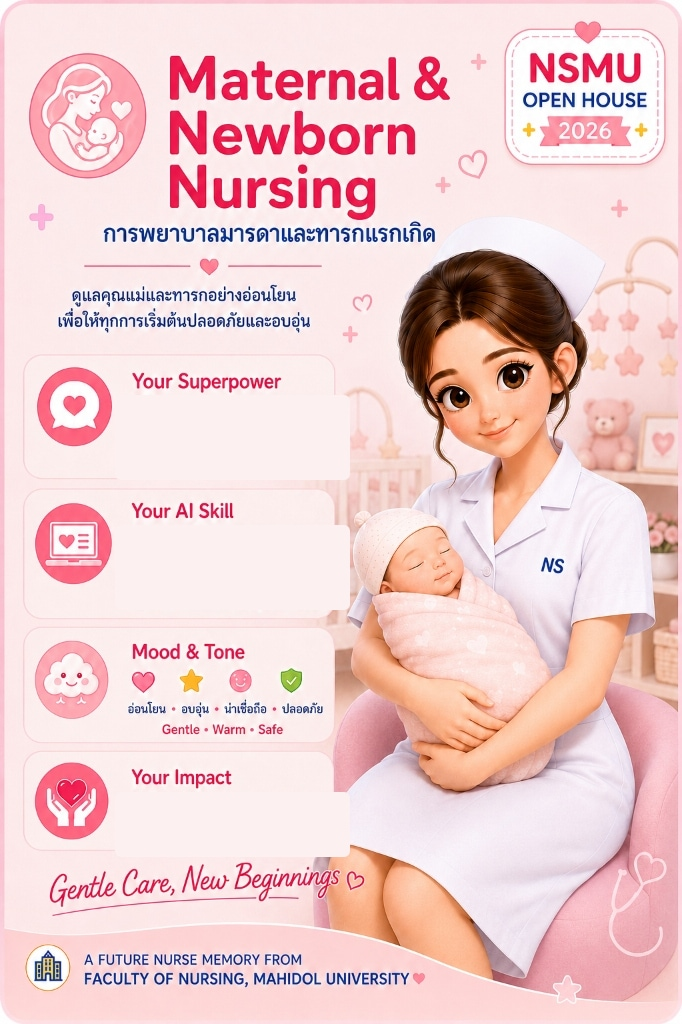
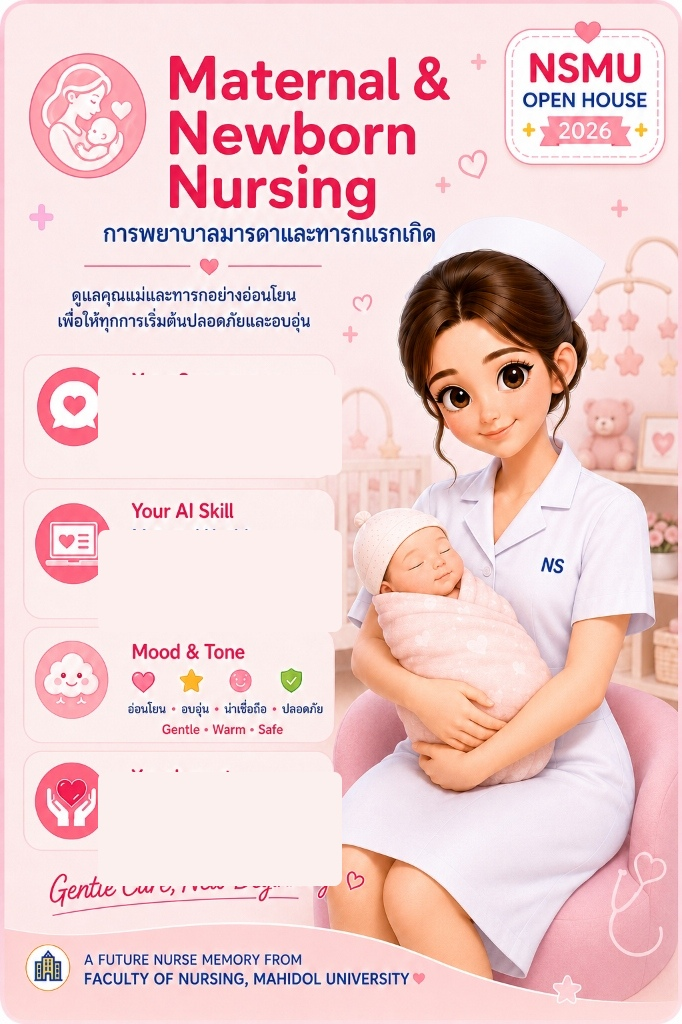
asset(oa_male): update male older adult nurse character illustration for reveal view

diff --git a/src/engine/cardRenderer.ts b/src/engine/cardRenderer.ts
@@ -134,123 +134,125 @@ async function renderTemplateCard(
     descColor: '#334155',
   };
 
-  const isNarrow = targetWidth <= 1150; // 576 width (PED female, COMM, TECH)
   const isPedFemale = result.pathId === 'PED' && result.characterType === 'female_student';
 
   if (isPedFemale) {
-    // ── Case 1: PED Female Template (print directly into the cleaned dashed boxes) ──
+    // ── Case 1: PED Female Template (print directly into the clean dashed boxes) ──
     ctx.save();
-    // Superpower Title
-    ctx.fillStyle = theme.primary;
-    ctx.font = `bold 26px ${CARD_FONT}`;
     ctx.textAlign = 'left';
+
+    // 1. Superpower Title (in the pill)
+    ctx.fillStyle = theme.primary;
+    ctx.font = `bold 34px ${CARD_FONT}`;
     ctx.textBaseline = 'middle';
-    ctx.fillText(result.superpower, 204, 695);
+    ctx.fillText(result.superpower, 98 * scale, 369 * scale);
 
     // Superpower Thai Description (inside dashed box)
-    ctx.fillStyle = theme.descColor;
-    ctx.font = `600 22px ${CARD_FONT}`;
+    ctx.fillStyle = '#334155';
+    ctx.font = `600 28px ${CARD_FONT}`;
     ctx.textBaseline = 'top';
-    const sLines = wrapThaiText(ctx, getSuperpowerDesc(result), 410);
-    const startSY = 750 + Math.max(0, (120 - sLines.length * 30) / 2);
-    sLines.forEach((line, i) => {
-      ctx.fillText(line, 88, startSY + i * 32);
+    const sLines = wrapThaiText(ctx, getSuperpowerDesc(result), 216 * scale);
+    const startSY = 442 * scale;
+    sLines.slice(0, 3).forEach((line, i) => {
+      ctx.fillText(line, 44 * scale, startSY + i * 38);
     });
 
-    // AI Skill Title
+    // 2. AI Skill Title (in the pill)
     ctx.fillStyle = theme.primary;
-    ctx.font = `bold 26px ${CARD_FONT}`;
+    ctx.font = `bold 34px ${CARD_FONT}`;
     ctx.textBaseline = 'middle';
-    ctx.fillText(result.aiSkill, 204, 1045);
+    ctx.fillText(result.aiSkill, 98 * scale, 563 * scale);
 
     // AI Skill Thai Description (inside dashed box)
-    ctx.fillStyle = theme.descColor;
-    ctx.font = `600 22px ${CARD_FONT}`;
+    ctx.fillStyle = '#334155';
+    ctx.font = `600 28px ${CARD_FONT}`;
     ctx.textBaseline = 'top';
-    const aiLines = wrapThaiText(ctx, getAiSkillDesc(result), 410);
-    const startAiY = 1095 + Math.max(0, (120 - aiLines.length * 30) / 2);
-    aiLines.forEach((line, i) => {
-      ctx.fillText(line, 88, startAiY + i * 32);
+    const aiLines = wrapThaiText(ctx, getAiSkillDesc(result), 216 * scale);
+    const startAiY = 636 * scale;
+    aiLines.slice(0, 3).forEach((line, i) => {
+      ctx.fillText(line, 44 * scale, startAiY + i * 38);
     });
 
-    // Mood & Tone: UNTOUCHED!
+    // 3. Mood & Tone: UNTOUCHED on image!
 
-    // Impact Title
+    // 4. Impact Title (in the pill)
     ctx.fillStyle = theme.primary;
-    ctx.font = `bold 26px ${CARD_FONT}`;
+    ctx.font = `bold 32px ${CARD_FONT}`;
     ctx.textBaseline = 'middle';
-    ctx.fillText(result.path.badge || 'Child Care Champion', 204, 1550);
+    ctx.fillText(result.path.badge || 'Child Care Champion', 98 * scale, 852 * scale);
 
     // Impact Thai Description (inside dashed box)
-    ctx.fillStyle = theme.descColor;
-    ctx.font = `600 21px ${CARD_FONT}`;
+    ctx.fillStyle = '#334155';
+    ctx.font = `600 26px ${CARD_FONT}`;
     ctx.textBaseline = 'top';
-    const impLines = wrapThaiText(ctx, result.profileImpact, 410);
-    const startImpY = 1600 + Math.max(0, (90 - impLines.length * 28) / 2);
-    impLines.forEach((line, i) => {
-      ctx.fillText(line, 88, startImpY + i * 30);
+    const impLines = wrapThaiText(ctx, result.profileImpact, 195 * scale);
+    const startImpY = 878 * scale;
+    impLines.slice(0, 2).forEach((line, i) => {
+      ctx.fillText(line, 65 * scale, startImpY + i * 36);
     });
     ctx.restore();
   } else {
-    // ── Case 2: All Other Cards (print directly into the cleaned boxes on the image) ──
-    const textX = isNarrow ? 200 : 230;
-    const maxW = isNarrow ? 310 : 415;
+    // ── Case 2: All Other Cards (print directly into the clean boxes on the image) ──
+    const isW576 = sourceWidth <= 600;
+    const isW819 = sourceWidth >= 750;
 
-    // Y offsets per path to align precisely with each card's pre-designed box
-    const Y_MAP: Record<string, { spTitle: number; spDesc: number; aiTitle: number; aiDesc: number; impDesc: number }> = {
-      COMM: { spTitle: 775, spDesc: 812, aiTitle: 1025, aiDesc: 1062, impDesc: 1525 },
-      TECH: { spTitle: 712, spDesc: 752, aiTitle: 994,  aiDesc: 1032, impDesc: 1525 },
-      ER:   { spTitle: 718, spDesc: 758, aiTitle: 1012, aiDesc: 1052, impDesc: 1550 },
-      MH:   { spTitle: 788, spDesc: 828, aiTitle: 1072, aiDesc: 1112, impDesc: 1625 },
-      OA:   { spTitle: 732, spDesc: 772, aiTitle: 1002, aiDesc: 1042, impDesc: 1535 },
-      MAT:  { spTitle: 742, spDesc: 782, aiTitle: 992,  aiDesc: 1032, impDesc: 1525 },
-      INT:  { spTitle: 712, spDesc: 752, aiTitle: 1012, aiDesc: 1052, impDesc: 1565 },
-      PED:  { spTitle: 668, spDesc: 708, aiTitle: 982,  aiDesc: 1022, impDesc: 1595 },
-    };
+    const textX = (isW819 ? 136 : isW576 ? 94 : 104) * scale;
+    const maxW = (isW819 ? 226 : isW576 ? 168 : 226) * scale;
 
-    const yConfig = Y_MAP[result.pathId] || {
-      spTitle: 730, spDesc: 770, aiTitle: 1010, aiDesc: 1050, impDesc: 1540
-    };
+    const titleFontSize = isW576 ? 'bold 34px' : 'bold 36px';
+    const descFontSize = isW576 ? '500 28px' : '500 29px';
+    const descLineH = isW576 ? 38 : 40;
+
+    const spTitleY = (isW819 ? 412 : isW576 ? 412 : 398) * scale;
+    const spDescY = (isW819 ? 440 : isW576 ? 440 : 428) * scale;
+
+    const aiTitleY = (isW819 ? 558 : isW576 ? 565 : 552) * scale;
+    const aiDescY = (isW819 ? 586 : isW576 ? 593 : 582) * scale;
+
+    const impDescY = (isW819 ? 798 : isW576 ? 798 : 792) * scale;
 
     ctx.save();
-    // 1. Superpower
-    ctx.fillStyle = theme.primary;
-    ctx.font = `bold 24px ${CARD_FONT}`;
     ctx.textAlign = 'left';
-    ctx.textBaseline = 'middle';
-    ctx.fillText(result.superpower, textX, yConfig.spTitle);
 
-    ctx.fillStyle = theme.descColor;
-    ctx.font = `600 19px ${CARD_FONT}`;
+    // 1. Superpower Title
+    ctx.fillStyle = '#1E293B';
+    ctx.font = `${titleFontSize} ${CARD_FONT}`;
+    ctx.textBaseline = 'middle';
+    ctx.fillText(result.superpower, textX, spTitleY);
+
+    // Superpower Thai Description
+    ctx.fillStyle = '#334155';
+    ctx.font = `${descFontSize} ${CARD_FONT}`;
     ctx.textBaseline = 'top';
     const sLines = wrapThaiText(ctx, getSuperpowerDesc(result), maxW);
-    sLines.slice(0, 4).forEach((line, i) => {
-      ctx.fillText(line, textX, yConfig.spDesc + i * 27);
+    sLines.slice(0, 3).forEach((line, i) => {
+      ctx.fillText(line, textX, spDescY + i * descLineH);
     });
 
-    // 2. AI Skill
-    ctx.fillStyle = theme.primary;
-    ctx.font = `bold 24px ${CARD_FONT}`;
+    // 2. AI Skill Title
+    ctx.fillStyle = '#1E293B';
+    ctx.font = `${titleFontSize} ${CARD_FONT}`;
     ctx.textBaseline = 'middle';
-    ctx.fillText(result.aiSkill, textX, yConfig.aiTitle);
+    ctx.fillText(result.aiSkill, textX, aiTitleY);
 
-    ctx.fillStyle = theme.descColor;
-    ctx.font = `600 19px ${CARD_FONT}`;
+    // AI Skill Thai Description
+    ctx.fillStyle = '#334155';
+    ctx.font = `${descFontSize} ${CARD_FONT}`;
     ctx.textBaseline = 'top';
     const aiLines = wrapThaiText(ctx, getAiSkillDesc(result), maxW);
-    aiLines.slice(0, 4).forEach((line, i) => {
-      ctx.fillText(line, textX, yConfig.aiDesc + i * 27);
+    aiLines.slice(0, 3).forEach((line, i) => {
+      ctx.fillText(line, textX, aiDescY + i * descLineH);
     });
 
-    // 3. Mood & Tone: UNTOUCHED!
+    // 3. Mood & Tone: UNTOUCHED on image!
 
-    // 4. Impact
-    ctx.fillStyle = theme.descColor;
-    ctx.font = `600 19px ${CARD_FONT}`;
+    // 4. Impact Thai Description
+    ctx.fillStyle = '#334155';
+    ctx.font = `${descFontSize} ${CARD_FONT}`;
     ctx.textBaseline = 'top';
     const impLines = wrapThaiText(ctx, result.profileImpact, maxW);
-    impLines.slice(0, 4).forEach((line, i) => {
-      ctx.fillText(line, textX, yConfig.impDesc + i * 27);
+    impLines.slice(0, 3).forEach((line, i) => {
+      ctx.fillText(line, textX, impDescY + i * descLineH);
     });
     ctx.restore();
   }

diff --git a/src/views/CardPreviewView.tsx b/src/views/CardPreviewView.tsx
@@ -234,9 +234,9 @@ export const CardPreviewView: React.FC<CardPreviewViewProps> = ({
               }}
             />
 
-            {/* Single Solid Card Frame (No 3D flip card, no bleeding back face) */}
+            {/* Single Solid Card Frame (No dark box, beautiful drop-shadow) */}
             <div
-              className="relative h-full max-h-[460px] sm:max-h-[520px] md:max-h-[560px] max-w-full select-none rounded-2xl sm:rounded-3xl shadow-xl overflow-hidden border-2 border-white/90 bg-slate-900 flex items-center justify-center transition-transform duration-200"
+              className="relative h-full max-h-[min(520px,50dvh)] sm:max-h-[min(560px,54dvh)] md:max-h-[600px] max-w-[min(92vw,360px)] sm:max-w-[400px] select-none rounded-[22px] sm:rounded-[28px] drop-shadow-[0_16px_36px_rgba(0,43,127,0.18)] overflow-hidden flex items-center justify-center transition-transform duration-200"
               style={{
                 aspectRatio: cardAspect,
                 transform: tilt.active
@@ -247,16 +247,16 @@ export const CardPreviewView: React.FC<CardPreviewViewProps> = ({
               onPointerLeave={handlePointerLeave}
             >
               {generating ? (
-                <div className="flex flex-col items-center gap-2.5 p-6 text-center">
+                <div className="flex flex-col items-center gap-2.5 p-6 text-center bg-white/70 backdrop-blur-md rounded-2xl">
                   <Loader2 className="w-8 h-8 text-[#FF3366] animate-spin" />
-                  <p className="text-xs font-bold text-slate-300">กำลังเตรียมการ์ดของคุณ...</p>
+                  <p className="text-xs font-bold text-slate-500">กำลังเตรียมการ์ดของคุณ...</p>
                 </div>
               ) : cardDataUrl ? (
                 <>
                   <img
                     src={cardDataUrl}
                     alt={`Future Nurse Card — ${result.path.nameEn}`}
-                    className="w-full h-full object-contain select-none"
+                    className="w-full h-full object-contain select-none card-crisp"
                     draggable={false}
                   />
 

diff --git a/src/views/MobileResultView.tsx b/src/views/MobileResultView.tsx
@@ -264,7 +264,7 @@ export const MobileResultView: React.FC<MobileResultViewProps> = ({ result, onPl
               ? 'transform 0.08s ease-out'
               : 'transform 0.5s cubic-bezier(0.2, 0.8, 0.2, 1)',
           }}
-          className="relative w-full max-w-[280px] rounded-3xl overflow-hidden shadow-2xl border-2 border-white/80 bg-slate-100 flex items-center justify-center select-none cursor-pointer"
+          className="relative w-full max-w-[280px] sm:max-w-[320px] max-h-[min(480px,50dvh)] rounded-3xl overflow-hidden shadow-2xl border-2 border-white/80 bg-slate-100 flex items-center justify-center select-none cursor-pointer"
           title="แตะเพื่อหมุนดูมิติการ์ด"
         >
           {/* Holographic light glare overlay */}
@@ -281,7 +281,7 @@ export const MobileResultView: React.FC<MobileResultViewProps> = ({ result, onPl
             <img
               src={cardDataUrl}
               alt="Future Nurse Card"
-              className="w-full h-full object-contain animate-fade-in select-none pointer-events-none"
+              className="w-full h-full object-contain animate-fade-in select-none pointer-events-none card-crisp"
             />
           ) : (
             <div className="flex flex-col items-center gap-2 p-6 text-center">

diff --git a/src/views/SaveShareView.tsx b/src/views/SaveShareView.tsx
@@ -206,7 +206,7 @@ export const SaveShareView: React.FC<SaveShareViewProps> = ({
               <img
                 src={cardDataUrl}
                 alt="Future Nurse Card"
-                className="w-full h-full object-contain select-none pointer-events-none"
+                className="w-full h-full object-contain select-none pointer-events-none card-crisp"
               />
             ) : (
               <div className="flex flex-col items-center gap-2 p-4 text-center">

diff --git a/src/index.css b/src/index.css
@@ -47,6 +47,15 @@
   }
 }
 
+/* ── Crisp Card Rendering on Retina, iPad & Mobile Displays ─────────────── */
+.card-crisp {
+  image-rendering: -webkit-optimize-contrast;
+  image-rendering: crisp-edges;
+  transform: translateZ(0);
+  backface-visibility: hidden;
+  will-change: transform;
+}
+
 /* Custom animations */
 @keyframes fadeIn {
   from { opacity: 0; transform: translateY(6px); }
